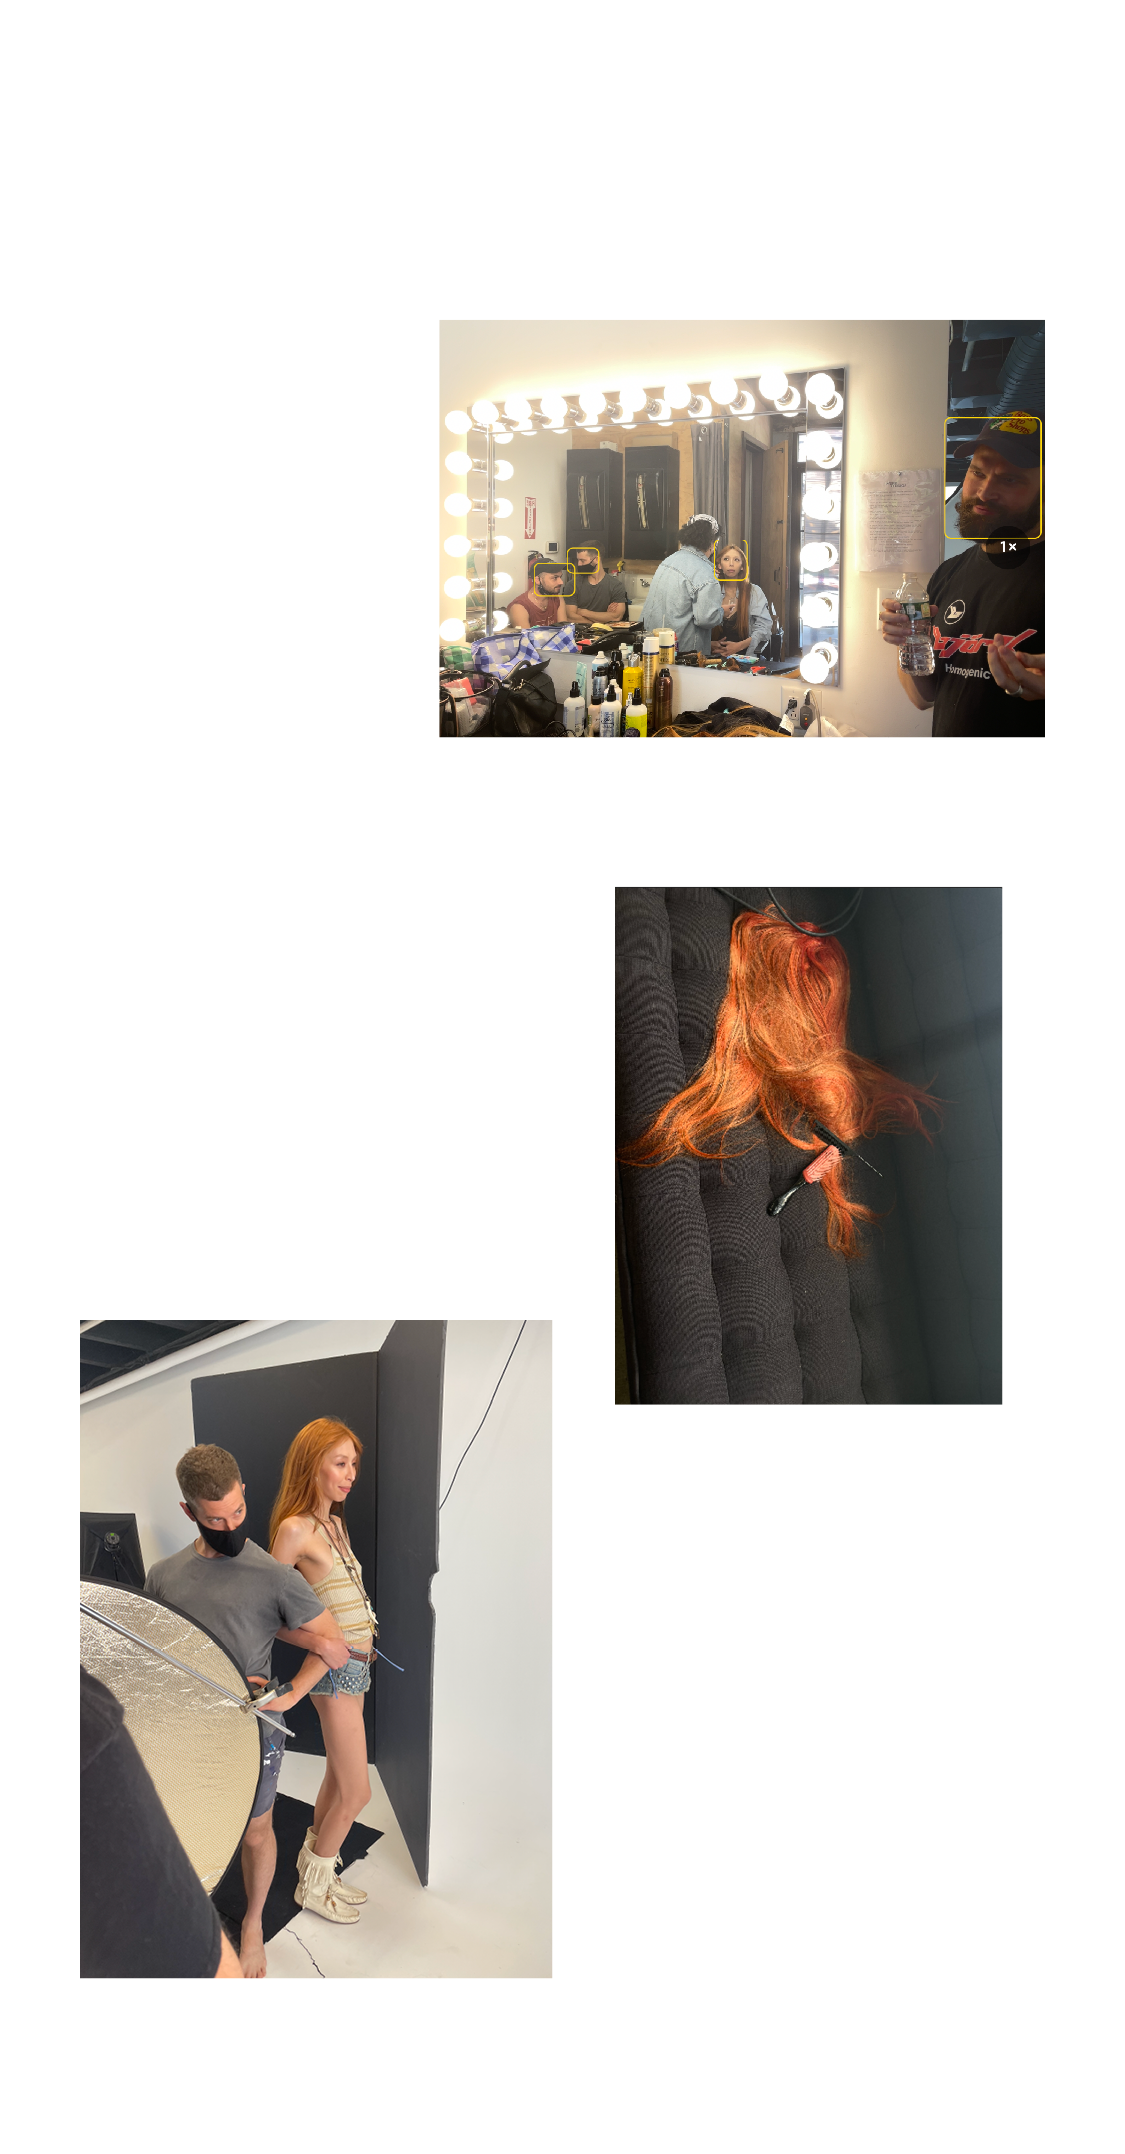
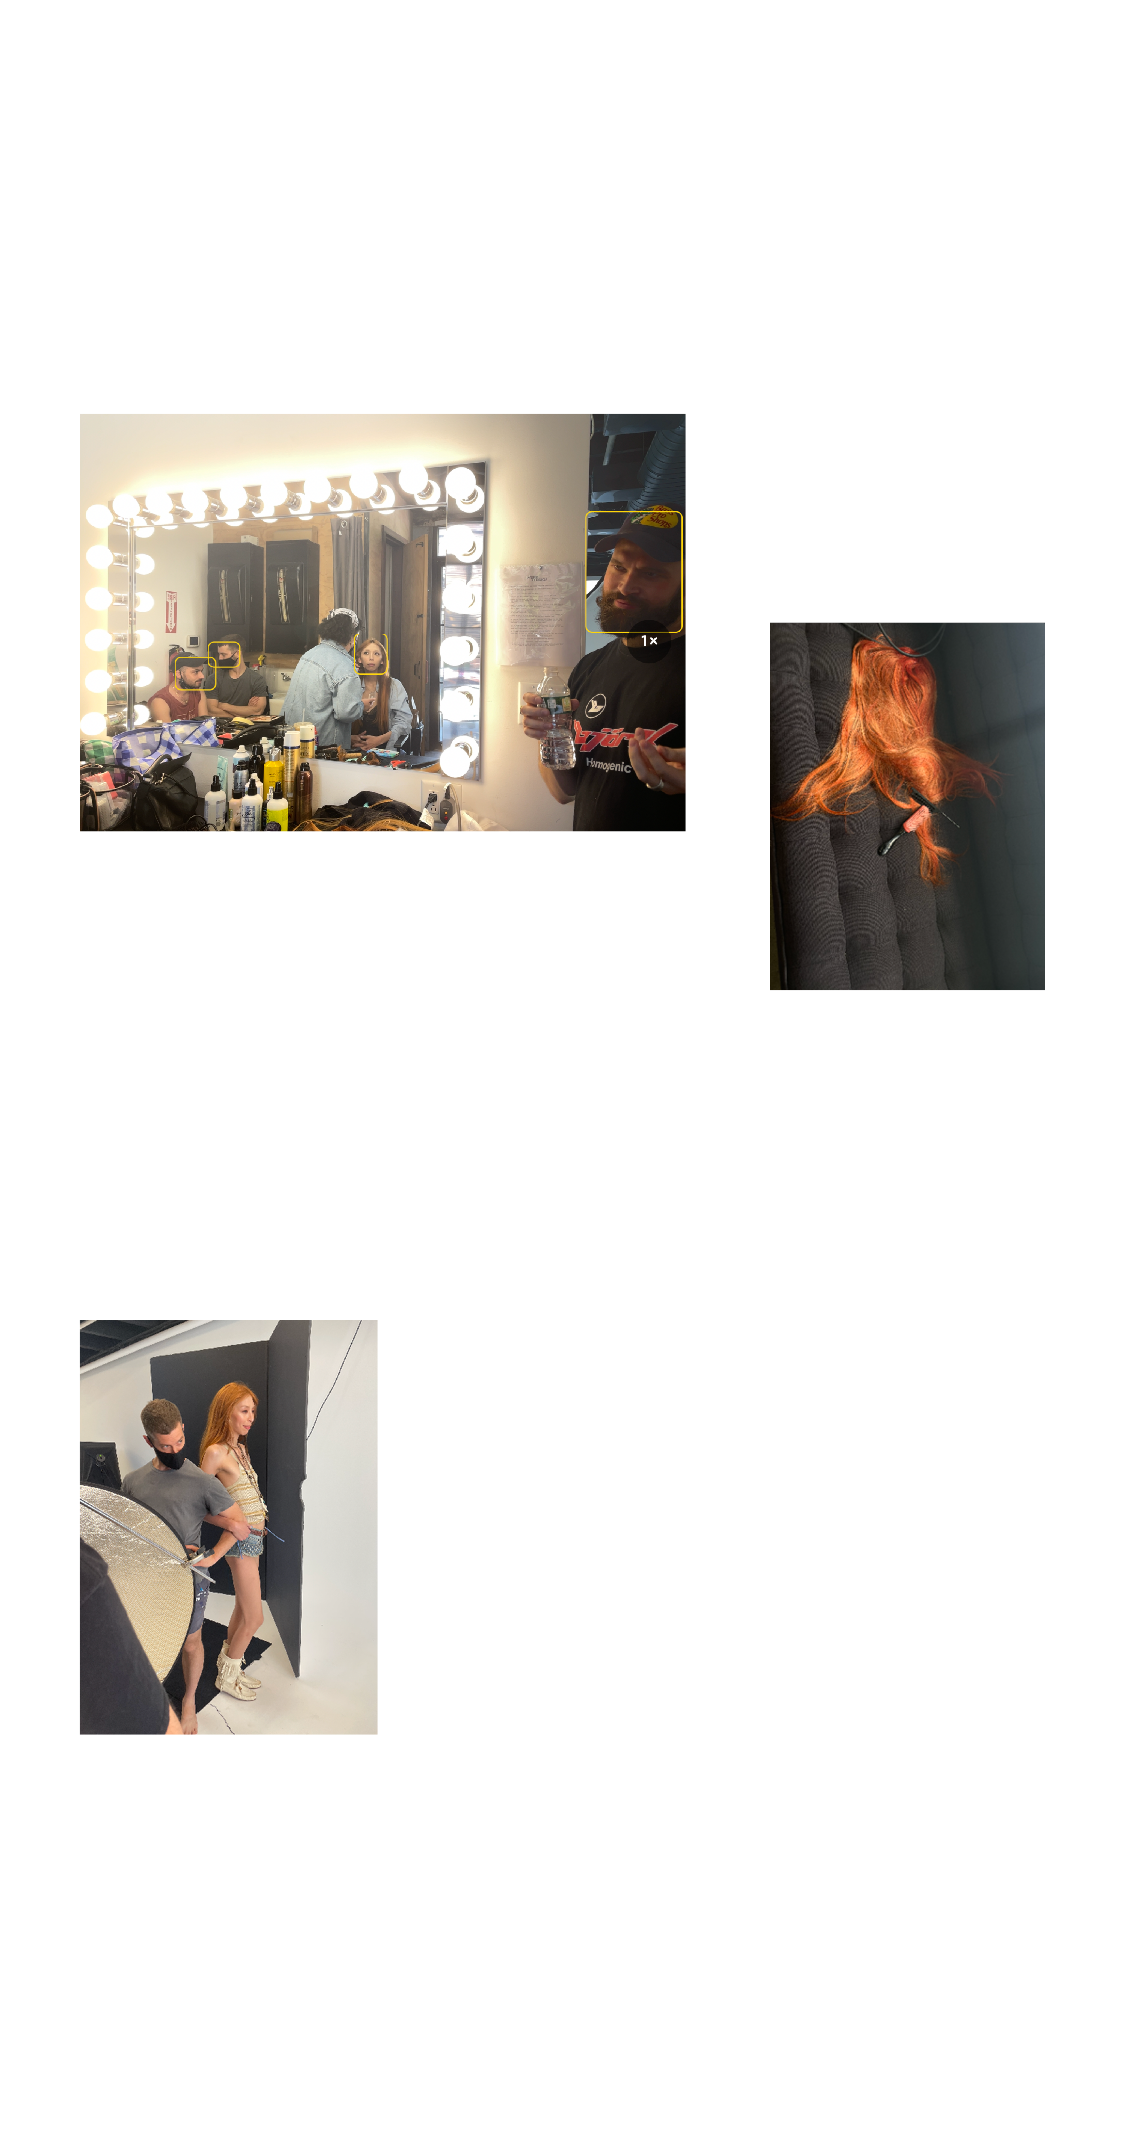
+

diff --git a/gestaltung.css b/gestaltung.css
@@ -697,13 +697,13 @@ img {
 
 .s9_backstage_image {
   width: auto;
-  height: 30%;
+  height: 25%;
   top: 0;
   left: 0;
 }
 
 .backstage_image_one {
-  transform: translate(0vw, 20vh);
+  transform: translate(20vw, 30vh);
 }
 
 .backstage_image_two {
